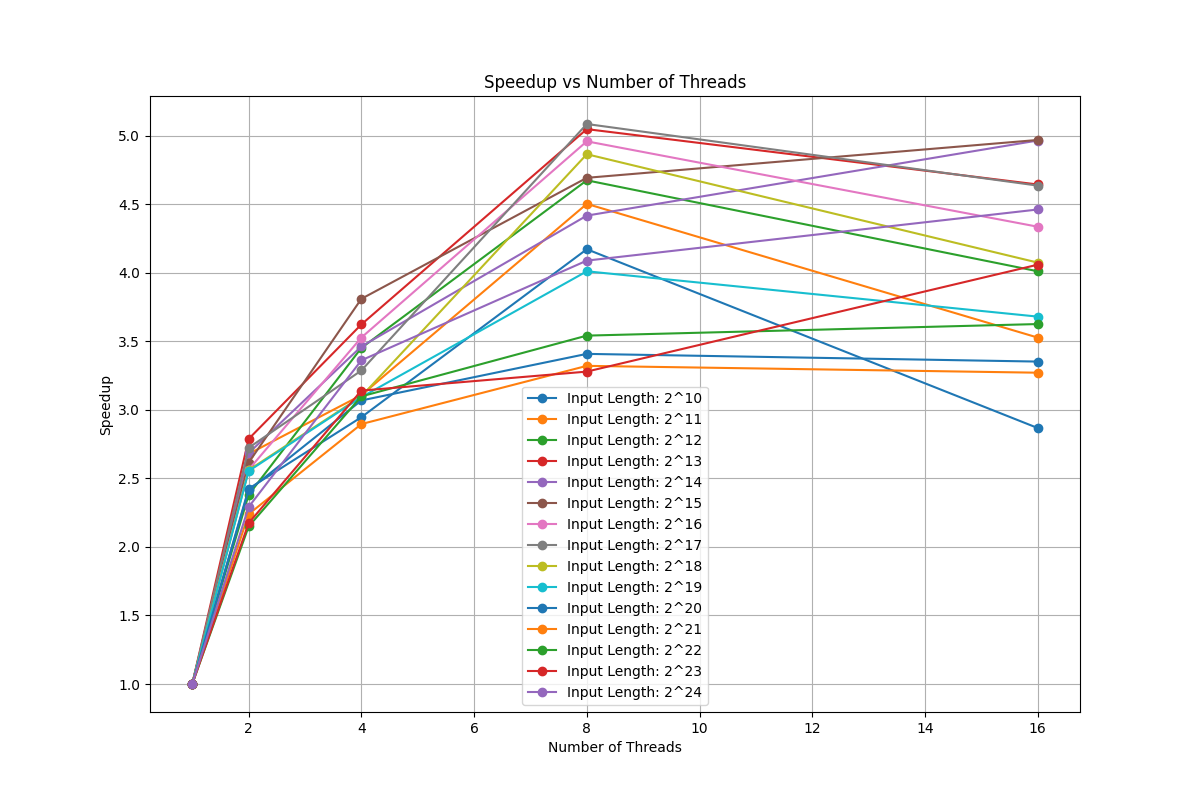
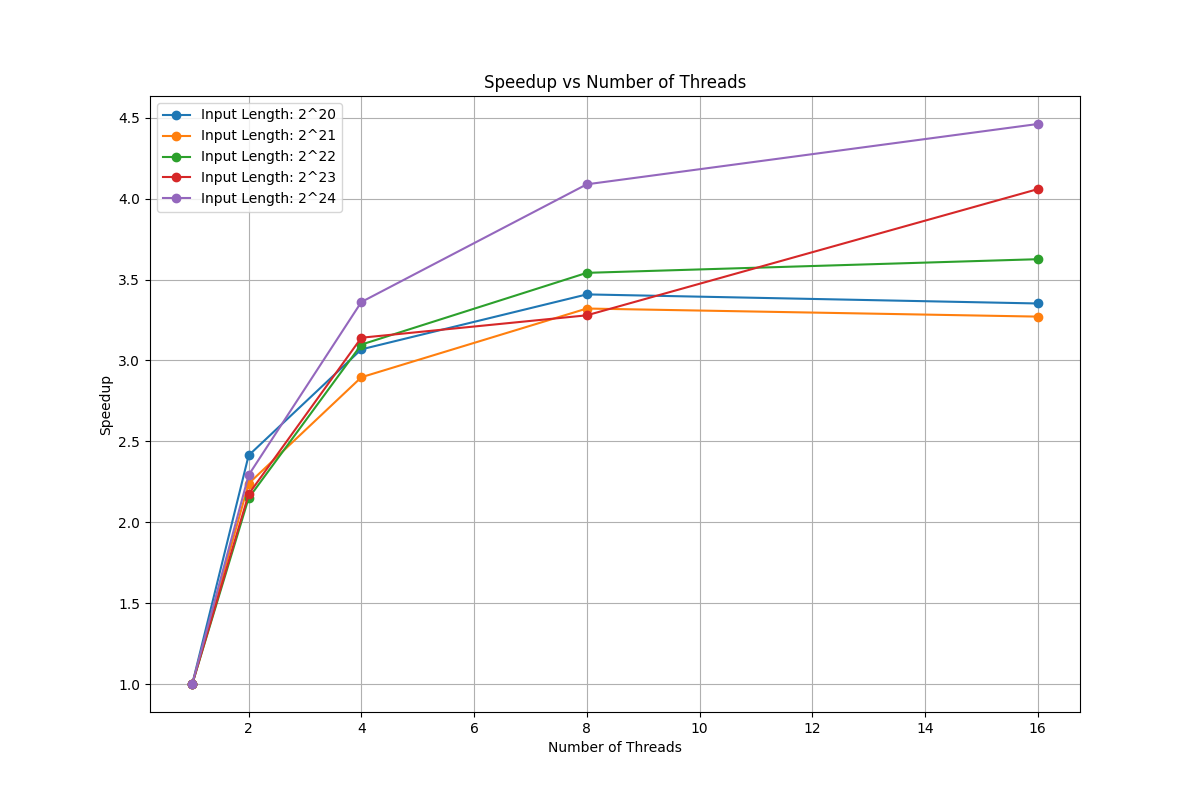
cut speedup values

diff --git a/times.py b/times.py
@@ -11,7 +11,8 @@ def process_data(file_path):
                 num_threads = int(parts[0])
                 input_length_exp = int(parts[1])
                 exec_time = float(parts[2])
-                data.append((num_threads, input_length_exp, exec_time))
+                if input_length_exp >= 20:
+                    data.append((num_threads, input_length_exp, exec_time))
     return data
 
 # Generate plots
